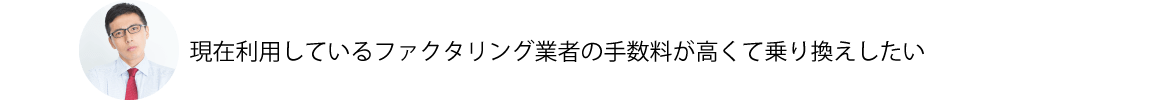
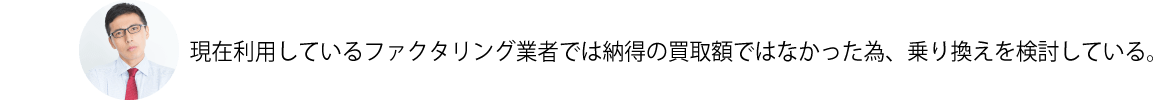
[FIX]修正、資本金、Q&A

Changed region(s): [[0.1538, 0.39, 0.9846, 0.63]]

diff --git a/lp.html b/lp.html
@@ -504,12 +504,12 @@
 								<div class="col-lg-4 space20">
 					<div class="qWrap">
 						<div class="qText">Q</div>
-						<div class="qRead">他社を利用したとき、手数料が高くてファクタリングを利用するのを迷ってます</div>
+						<div class="qRead">他社を利用したとき、買取額が低くて満足いかなくてファクタリングを利用するのを迷ってます。</div>
 					</div>
 					<div class="aWrap">
 						<div class="aText">A</div>
-						<div class="aRead">弊社は手数料業界最安値を目指し、中小企業様の資金調達で一番頼りになる企業でありたいと努力させていただいております。
-一番苦しい時や、どうしようもなく困ってしまったときにアットマネジメントJAPANに頼ったことを良かったと思えるような取引を目指しております。</div>
+						<div class="aRead">弊社では業界で一番の買取額を目指しております。<br>
+初めての買取でご不安に思う気持ちは十分に理解しております。大事な売掛金をお売りになるわけですから、相見積もりを行い、お客様個人でも同業他社を比較し、満足いく取引が行える業者を選ぶとよいと思います。</div>
 					</div>
 				</div>
 
@@ -520,10 +520,8 @@
 					</div>
 					<div class="aWrap">
 						<div class="aText">A</div>
-						<div class="aRead">弊社が推奨するファクタリングには金利という概念が存在しません。
-企業様で保有している売掛金を償還請求権なしで弊社が完全に買い取ることにより売掛先様からの
-通常の支払いサイトより早く資金化をすることが可能です。
-金利ではなく売買契約における手数料が発生いたします。</div>
+						<div class="aRead">弊社が推奨するファクタリングには金利という概念が存在しません。<br>
+企業様で保有している売掛金を償還請求権なしで弊社が完全に買い取る為、売掛先が万が一倒産した場合、弊社がそのリスクを負うという事になります。</div>
 					</div>
 				</div>
 			</div>
@@ -843,7 +841,7 @@
 
 			<div class="row space10">
 				<div class="col-xs-3"><img src="landing_imeges/sm_osusume5.png" class="img-responsive retina" alt="現在利用しているファクタリング業者の手数料が高くて乗り換えしたい"></div>
-				<div class="col-xs-9 top10px"><span class="osusumeRead">現在利用しているファクタリング業者の手数料が高くて乗り換えしたい</span></div>
+				<div class="col-xs-9 top10px"><span class="osusumeRead">現在利用しているファクタリング業者では納得の買取額ではなかった為、乗り換えを検討している。</span></div>
 			</div>
 			
 		</div>

diff --git a/company/index.html b/company/index.html
@@ -233,6 +233,10 @@
 			<td>與儀涼二　<a href="../message/index.html">代表者のご挨拶はこちら</a></td>
 		</tr>
 		<tr>
+			<td class="text-center">資本金</td>
+			<td>50,000,000円</td>
+		</tr>
+		<tr>
 			<td class="text-center">所在地</td>
 			<td>東京都中央区日本橋人形町3-7-14　セブンビル3F</td>
 		</tr>
